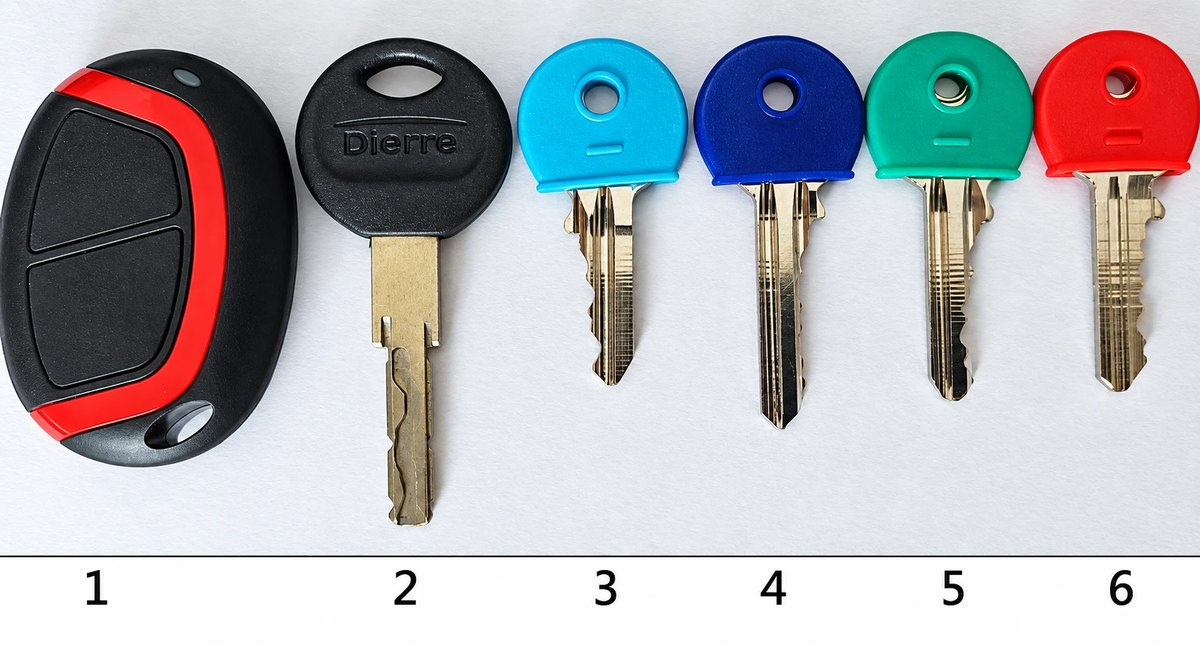
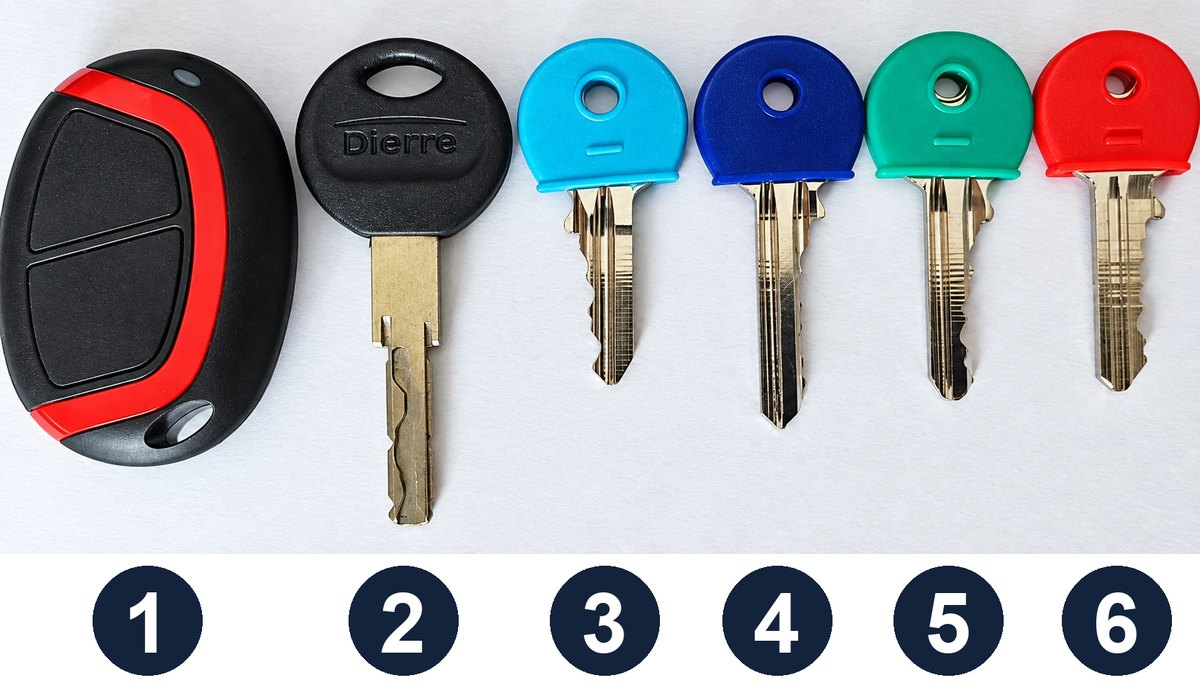
Numeri delle chiavi piu grandi; tolta la sezione Disponibilita

diff --git a/testi.js b/testi.js
@@ -41,8 +41,6 @@ const UI = {
     r_clima: "Climatizzatori a 24–26 °C, spenti quando siete fuori",
     host_titolo: "Siamo qui per voi", host_testo: "Per qualsiasi necessità scriveteci o chiamateci: rispondiamo di persona.",
     chiama: "Chiama", whatsapp: "WhatsApp",
-    torna_titolo: "Tornate a trovarci", torna_testo: "Controllate le date libere per il vostro prossimo soggiorno.",
-    disponibilita: "Disponibilità", sito: "Il nostro sito",
     guida_titolo: "La casa", guida_sotto: "Tutto quello che serve, stanza per stanza",
     cerca: "Cerca: forno, chiavi, wifi…", nessun_risultato: "Nessun risultato. Provate con un'altra parola.",
     dintorni_titolo: "Dintorni", dintorni_sotto: "Percorsi a piedi dall'Attico Panoramico",
@@ -73,8 +71,6 @@ const UI = {
     r_clima: "Air conditioners at 24–26 °C, off when you are out",
     host_titolo: "We are here for you", host_testo: "For anything at all, message or call us: we answer personally.",
     chiama: "Call", whatsapp: "WhatsApp",
-    torna_titolo: "Come back and see us", torna_testo: "Check the free dates for your next stay.",
-    disponibilita: "Availability", sito: "Our website",
     guida_titolo: "The house", guida_sotto: "Everything you need, room by room",
     cerca: "Search: oven, keys, wifi…", nessun_risultato: "No results. Try another word.",
     dintorni_titolo: "Nearby", dintorni_sotto: "Walking routes from Attico Panoramico",
@@ -105,8 +101,6 @@ const UI = {
     r_clima: "Klimaanlagen auf 24–26 °C, ausschalten, wenn Sie weg sind",
     host_titolo: "Wir sind für Sie da", host_testo: "Bei jedem Anliegen schreiben oder rufen Sie uns an: wir antworten persönlich.",
     chiama: "Anrufen", whatsapp: "WhatsApp",
-    torna_titolo: "Besuchen Sie uns wieder", torna_testo: "Prüfen Sie die freien Termine für Ihren nächsten Aufenthalt.",
-    disponibilita: "Verfügbarkeit", sito: "Unsere Website",
     guida_titolo: "Das Haus", guida_sotto: "Alles Nötige, Raum für Raum",
     cerca: "Suchen: Ofen, Schlüssel, WLAN…", nessun_risultato: "Keine Ergebnisse. Versuchen Sie ein anderes Wort.",
     dintorni_titolo: "Umgebung", dintorni_sotto: "Fußwege vom Attico Panoramico",
@@ -137,8 +131,6 @@ const UI = {
     r_clima: "Climatiseurs à 24–26 °C, éteints quand vous êtes absents",
     host_titolo: "Nous sommes là pour vous", host_testo: "Pour toute demande, écrivez-nous ou appelez-nous : nous répondons personnellement.",
     chiama: "Appeler", whatsapp: "WhatsApp",
-    torna_titolo: "Revenez nous voir", torna_testo: "Consultez les dates libres pour votre prochain séjour.",
-    disponibilita: "Disponibilités", sito: "Notre site",
     guida_titolo: "La maison", guida_sotto: "Tout ce qu'il faut, pièce par pièce",
     cerca: "Rechercher : four, clés, wifi…", nessun_risultato: "Aucun résultat. Essayez un autre mot.",
     dintorni_titolo: "Alentours", dintorni_sotto: "Itinéraires à pied depuis l'Attico Panoramico",
@@ -169,8 +161,6 @@ const UI = {
     r_clima: "Aire acondicionado a 24–26 °C, apagado cuando no estéis",
     host_titolo: "Estamos aquí para vosotros", host_testo: "Para cualquier necesidad, escribidnos o llamadnos: respondemos en persona.",
     chiama: "Llamar", whatsapp: "WhatsApp",
-    torna_titolo: "Volved a visitarnos", torna_testo: "Consultad las fechas libres para vuestra próxima estancia.",
-    disponibilita: "Disponibilidad", sito: "Nuestra web",
     guida_titolo: "La casa", guida_sotto: "Todo lo necesario, habitación por habitación",
     cerca: "Buscar: horno, llaves, wifi…", nessun_risultato: "Sin resultados. Probad con otra palabra.",
     dintorni_titolo: "Alrededores", dintorni_sotto: "Rutas a pie desde el Attico Panoramico",

diff --git a/index.html b/index.html
@@ -17,7 +17,7 @@
   <link rel="preconnect" href="https://fonts.googleapis.com">
   <link rel="preconnect" href="https://fonts.gstatic.com" crossorigin>
   <link href="https://fonts.googleapis.com/css2?family=Playfair+Display:ital,wght@0,500;0,600;0,700;1,500&family=Inter:wght@400;500;600;700&display=swap" rel="stylesheet">
-  <link rel="stylesheet" href="style.css?v=7">
+  <link rel="stylesheet" href="style.css?v=8">
 </head>
 <body>
 
@@ -96,16 +96,6 @@
         <div class="bottoni">
           <a class="btn btn--wa" id="hostWa" target="_blank" rel="noopener"><span>💬</span><b data-t="whatsapp">WhatsApp</b></a>
           <a class="btn btn--chiaro" id="hostTel"><span>📞</span><b data-t="chiama">Chiama</b></a>
-        </div>
-      </article>
-
-      <!-- Tornate -->
-      <article class="card torna">
-        <h2 class="titolo-card" data-t="torna_titolo">Tornate a trovarci</h2>
-        <p data-t="torna_testo"></p>
-        <div class="bottoni">
-          <a class="btn btn--oro" id="linkDisp" href="https://www.atticopanoramico.it/#disponibilita" target="_blank" rel="noopener"><span>📅</span><b data-t="disponibilita">Disponibilità</b></a>
-          <a class="btn btn--chiaro" id="linkSito" href="https://www.atticopanoramico.it/" target="_blank" rel="noopener"><span>🌐</span><b data-t="sito">Il nostro sito</b></a>
         </div>
       </article>
 
@@ -190,7 +180,7 @@
 
 <div class="avviso-copia" id="toast" hidden></div>
 
-<script src="testi.js?v=7"></script>
-<script src="app.js?v=7"></script>
+<script src="testi.js?v=8"></script>
+<script src="app.js?v=8"></script>
 </body>
 </html>

diff --git a/style.css b/style.css
@@ -110,7 +110,6 @@ strong, b { font-weight: 600; }
 .btn span { font-size: 18px; }
 .btn b { white-space: nowrap; }
 
-.torna p { margin: 6px 0 14px; }
 .piede { text-align: center; color: var(--tenue); font-size: 14px; padding: 18px 0 8px; }
 .piede p { margin: 2px 0; }
 .piede__nome { font: 600 20px var(--serif); color: var(--blu); }
@@ -218,7 +217,7 @@ strong, b { font-weight: 600; }
 .campo button { flex: none; padding: 8px 12px; border-radius: 10px; background: var(--blu); color: #fff; font-weight: 600; font-size: 14px; }
 .chiave { display: flex; align-items: center; gap: 14px; padding: 11px 0; border-top: 1px solid var(--linea); }
 .chiave:first-of-type { border-top: 0; }
-.chiave em { width: 26px; flex: none; font: 700 17px var(--serif); font-style: normal; color: var(--blu); text-align: center; }
+.chiave em { width: 38px; height: 38px; flex: none; border-radius: 50%; background: var(--blu); color: #fff; display: grid; place-items: center; font: 700 21px var(--sans); font-style: normal; }
 .chiave i { width: 26px; height: 26px; flex: none; border-radius: 50%; box-shadow: inset 0 0 0 2px rgba(0,0,0,.12); }
 .chiave i.tele { border-radius: 8px; background: var(--crema); display: grid; place-items: center; font-style: normal; font-size: 16px; box-shadow: none; }
 .settimana { display: grid; gap: 6px; margin: 0 0 16px; }

diff --git a/app.js b/app.js
@@ -44,13 +44,6 @@
     $("#codici").textContent = "CIR " + CONTATTI.cir + " · CIN " + CONTATTI.cin;
   }
 
-  // Sito nuovo: italiano in radice, poi /en/ /de/ /fr/ (lo spagnolo usa l'inglese)
-  function aggiornaLinkSito() {
-    const base = "https://www.atticopanoramico.it/" + ({ en: "en/", de: "de/", fr: "fr/", es: "en/" }[L] || "");
-    $("#linkSito").href = base;
-    $("#linkDisp").href = base + "#disponibilita";
-  }
-
   /* ---------- Oggi: rifiuti e silenzio ---------- */
   function fmtOra(h) {
     const d = new Date(2000, 0, 1, h, 0);
@@ -304,7 +297,7 @@
   }
 
   function disegnaTutto() {
-    applicaUI(); aggiornaLinkSito(); aggiornaOggi(); guida(); dintorni(); numeri(); mostraMeteo();
+    applicaUI(); aggiornaOggi(); guida(); dintorni(); numeri(); mostraMeteo();
   }
 
   /* ---------- Eventi ---------- */

diff --git a/CLAUDE.md b/CLAUDE.md
@@ -3,21 +3,22 @@
 Rifacimento professionale dell'app `CLAUDE\ATTICO PER INTERNO` (che resta intatta e online: il QR nella casa punta ancora a quella).
 
 ## File
-- `testi.js` — **TUTTI i contenuti**, in 5 lingue (it/en/de/fr/es): etichette (UI), calendario rifiuti, guida della casa, dintorni, cose da fare, numeri, recensioni. Per correggere un testo si tocca solo qui, in tutte e 5 le lingue.
+- `testi.js` — **TUTTI i contenuti**, in 5 lingue (it/en/de/fr/es): etichette (UI), calendario rifiuti, guida della casa, dintorni, cose da fare, numeri. Per correggere un testo si tocca solo qui, in tutte e 5 le lingue.
 - `app.js` — solo il funzionamento (disegna le pagine da testi.js).
 - `index.html`, `style.css`, `manifest.json`, `termostato.html` (copia del simulatore), `images/` (copia delle foto).
 - Cache busting `?v=N` in index.html: incrementarlo a ogni modifica.
 
 ## Funzioni
 - 4 schede in basso: Home · La casa · Dintorni · Aiuto; dettagli in una "scheda" che sale dal basso.
-- Home: meteo dal vivo (Open-Meteo, senza chiave), riquadro "Oggi" (rifiuti di stasera + fascia di silenzio calcolati dall'ora), pulsanti rapidi, regole, contatti, recensioni, disponibilità.
+- Home: meteo dal vivo (Open-Meteo, senza chiave), riquadro "Oggi" (rifiuti di stasera + fascia di silenzio calcolati dall'ora), pulsanti rapidi, regole, contatti.
 - Lingua automatica dal telefono, ricordata; ricerca nella guida; lettura ad alta voce; copia password WiFi.
 - Calendario rifiuti: `RIFIUTI_CALENDARIO` in testi.js (indice 0 = domenica). Se cambia, aggiornare anche la vecchia app e le locandine.
 
 ## Note
 - Recensioni tolte su richiesta (2026-10-05): gli ospiti le hanno già viste prima di prenotare.
 - Lettera di benvenuto tolta su richiesta (2026-10-05). Il testo originale resta nella vecchia app.
-- "Disponibilità" porta a `atticopanoramico.it/#disponibilita` nella lingua dell'ospite (`/en/`, `/de/`, `/fr/`; spagnolo → inglese). Il vecchio `/calendario/` non esiste più.
+- Sezione "Tornate a trovarci / Disponibilità" tolta su richiesta (2026-10-05): agli ospiti già in casa non interessa.
+- Foto chiavi `images/Chiavi.jpg`: rifatta con Pillow dalla foto dell'utente, numeri 1-6 in tondi blu grandi (stessa foto nella vecchia app). Nell'elenco numeri in tondi blu.
 - Adagio-Adagio: nella vecchia app la mappa era sbagliata (era quella della Campagnola); qui c'è solo il pulsante "Indicazioni".
 - Anteprima: configurazione `attico-ospiti-nuova` (porta 8793) in `CLAUDE\.claude\launch.json`.
 - **Anteprima online (provvisoria) dal 2026-10-05:** https://pxh2407.github.io/attico-guida-ospiti/ — repo `pxh2407/attico-guida-ospiti`, branch `main` (push: `git push`). I QR nella casa puntano ancora alla vecchia app.
